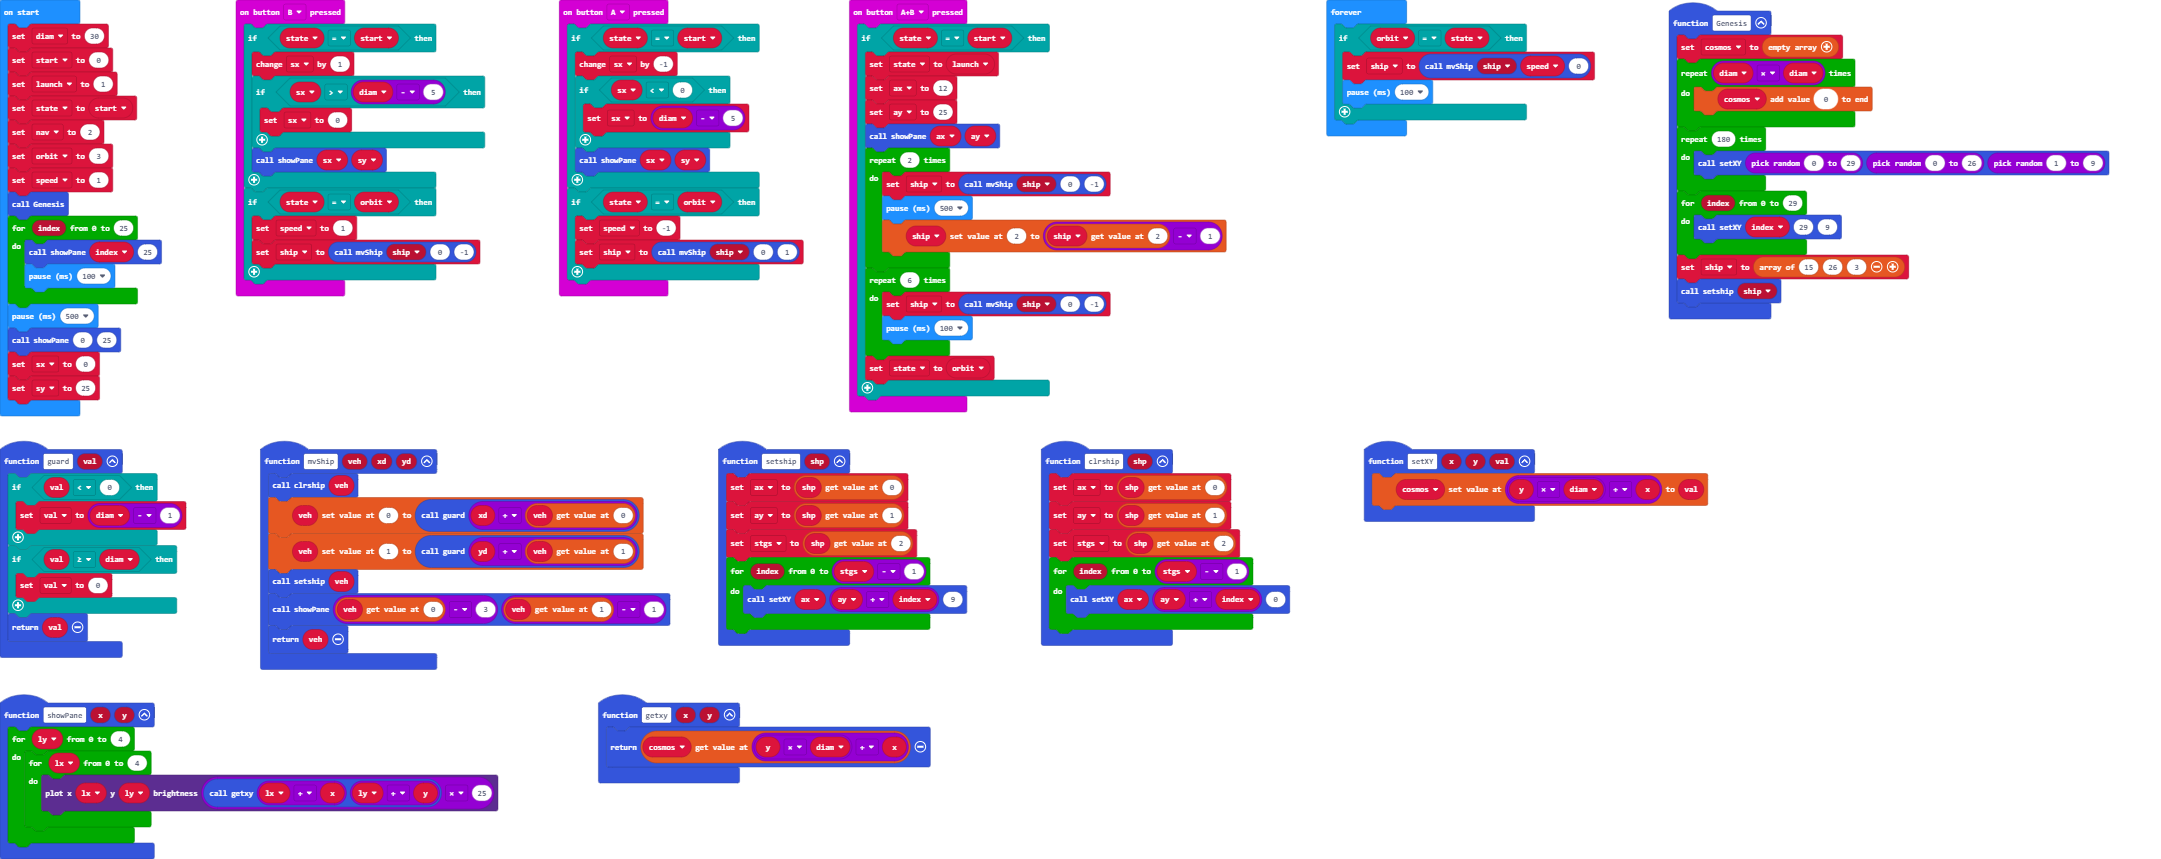
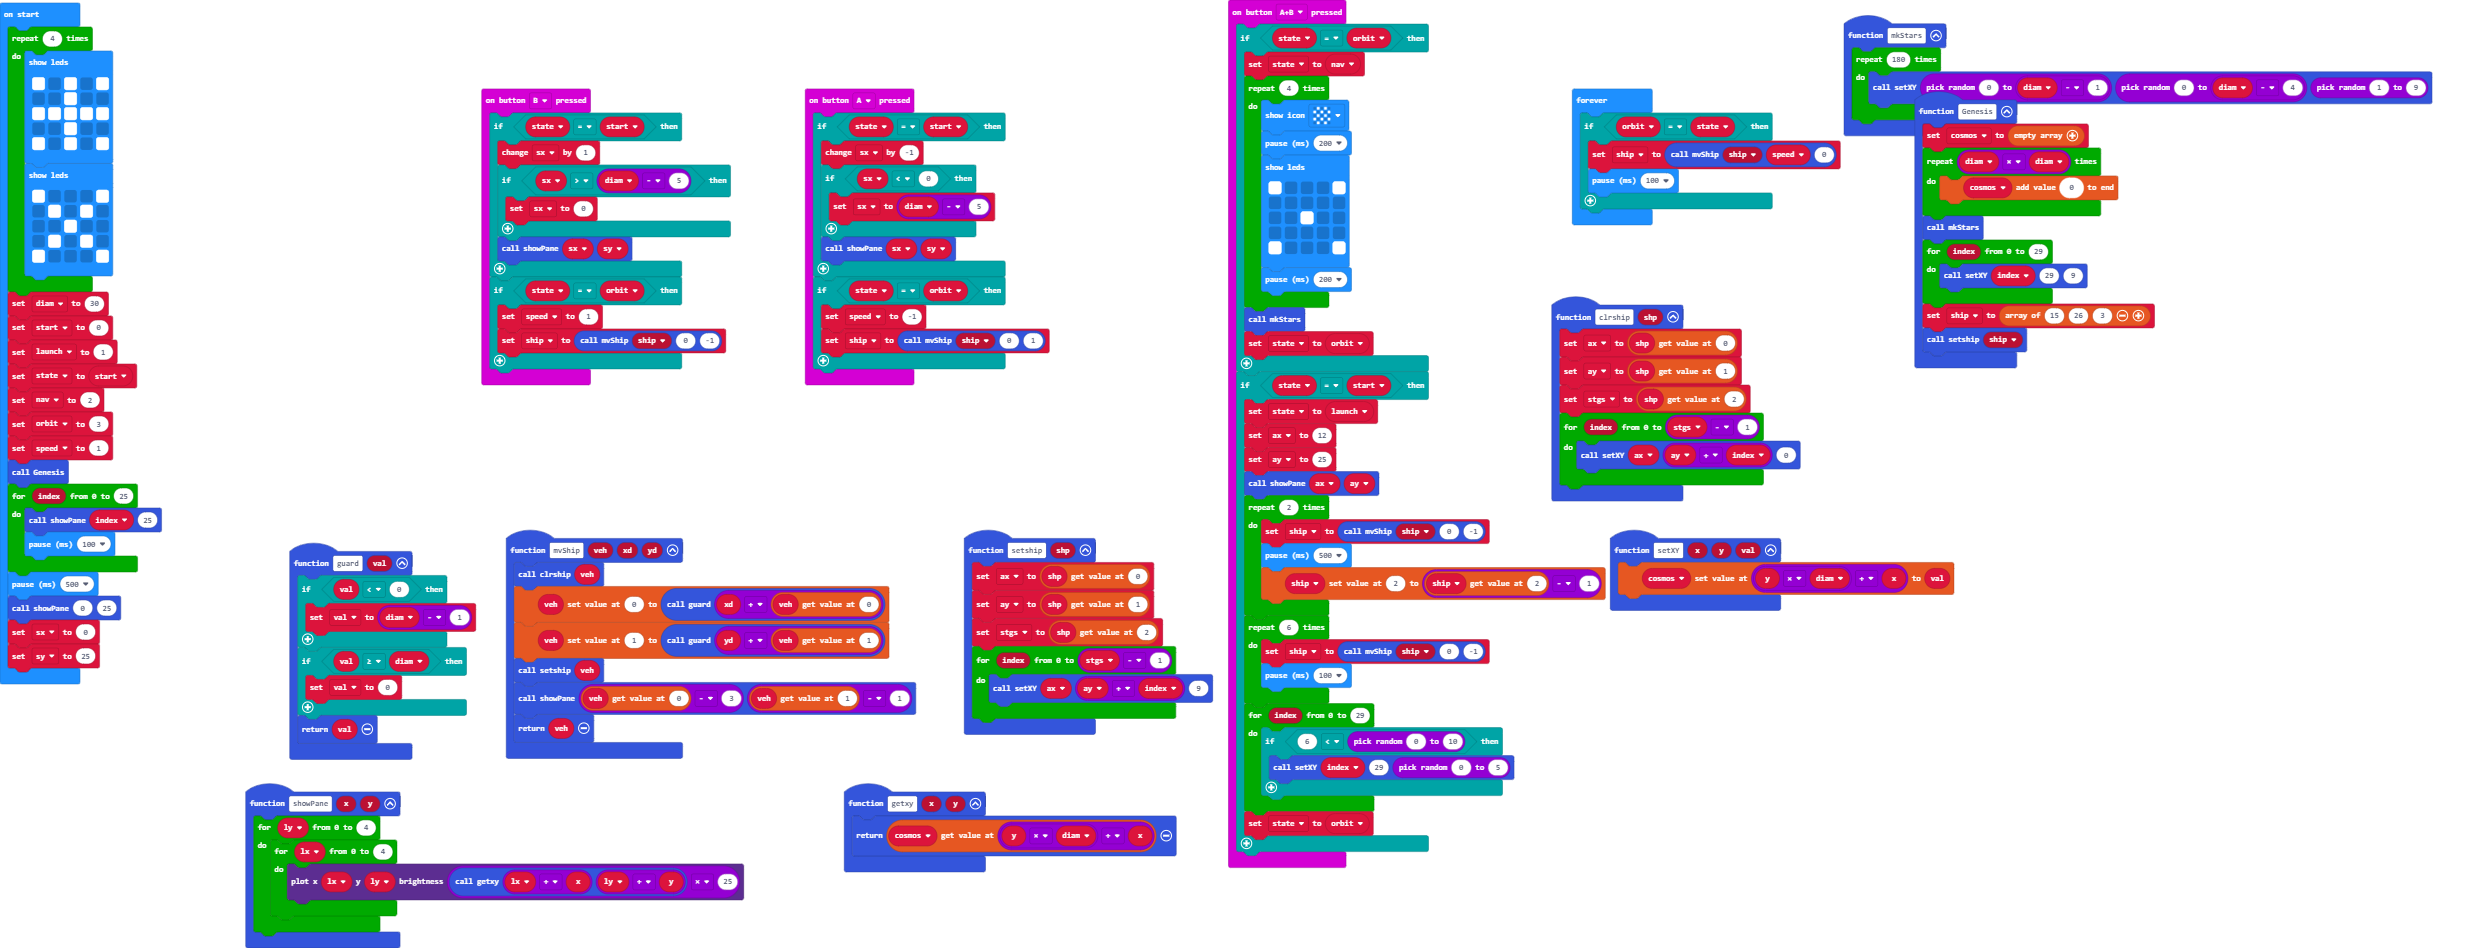
Update main.blocks, main.ts

diff --git a/main.ts b/main.ts
@@ -44,6 +44,23 @@ function guard (val: number) {
     return val
 }
 input.onButtonPressed(Button.AB, function () {
+    if (state == orbit) {
+        state = nav
+        for (let index = 0; index < 4; index++) {
+            basic.showIcon(IconNames.Chessboard)
+            basic.pause(200)
+            basic.showLeds(`
+                # . . . #
+                . . . . .
+                . . # . .
+                . . . . .
+                # . . . #
+                `)
+            basic.pause(200)
+        }
+        mkStars()
+        state = orbit
+    }
     if (state == start) {
         state = launch
         ax = 12
@@ -57,6 +74,11 @@ input.onButtonPressed(Button.AB, function () {
         for (let index = 0; index < 6; index++) {
             ship = mvShip(ship, 0, -1)
             basic.pause(100)
+        }
+        for (let index = 0; index <= 29; index++) {
+            if (6 < randint(0, 10)) {
+                setXY(index, 29, randint(0, 5))
+            }
         }
         state = orbit
     }
@@ -74,6 +96,11 @@ input.onButtonPressed(Button.B, function () {
         ship = mvShip(ship, 0, -1)
     }
 })
+function mkStars () {
+    for (let index = 0; index < 180; index++) {
+        setXY(randint(0, diam - 1), randint(0, diam - 4), randint(1, 9))
+    }
+}
 function setXY (x: number, y: number, val: number) {
     cosmos[y * diam + x] = val
 }
@@ -85,9 +112,7 @@ function Genesis () {
     for (let index = 0; index < diam * diam; index++) {
         cosmos.push(0)
     }
-    for (let index = 0; index < 180; index++) {
-        setXY(randint(0, 29), randint(0, 26), randint(1, 9))
-    }
+    mkStars()
     for (let index = 0; index <= 29; index++) {
         setXY(index, 29, 9)
     }
@@ -112,15 +137,32 @@ let sy = 0
 let sx = 0
 let speed = 0
 let orbit = 0
+let nav = 0
 let state = 0
 let launch = 0
 let start = 0
 let diam = 0
+for (let index = 0; index < 4; index++) {
+    basic.showLeds(`
+        # . # . #
+        . . # . .
+        # # # # #
+        . . # . .
+        # . # . #
+        `)
+    basic.showLeds(`
+        # . . . #
+        . # . # .
+        . . # . .
+        . # . # .
+        # . . . #
+        `)
+}
 diam = 30
 start = 0
 launch = 1
 state = start
-let nav = 2
+nav = 2
 orbit = 3
 speed = 1
 Genesis()
